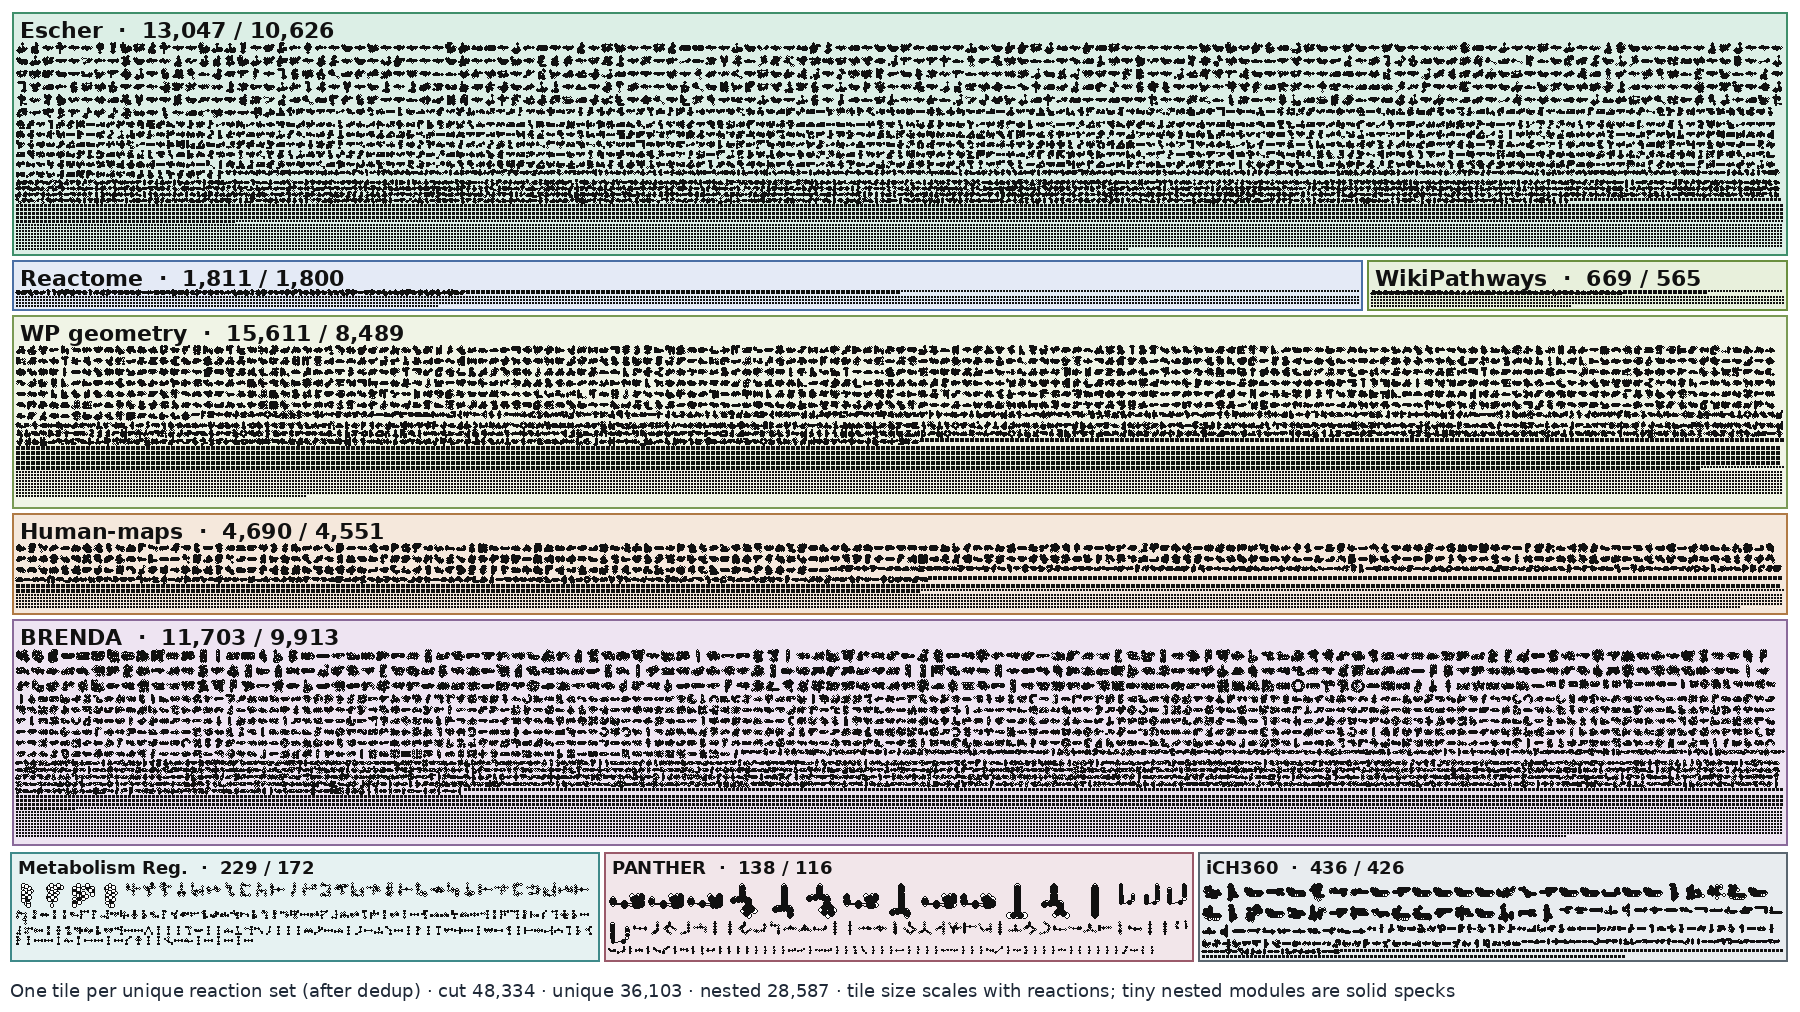
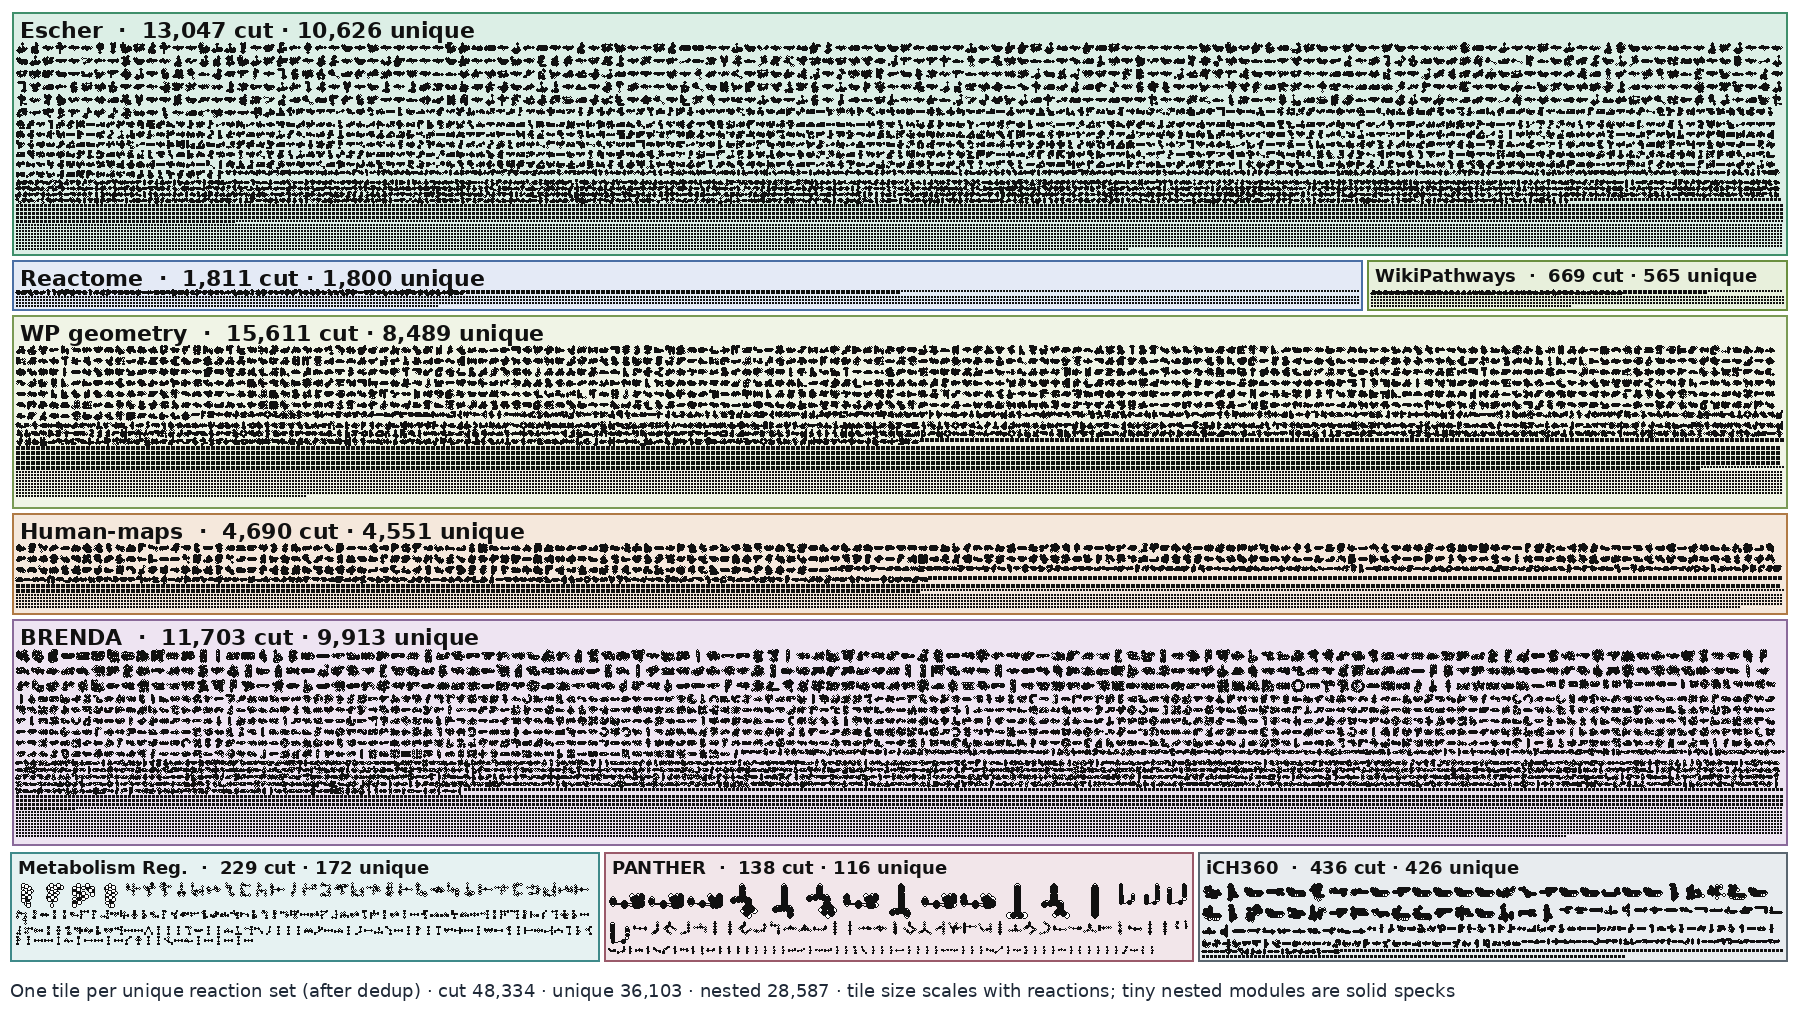
Link Project 22 on About and spell out cut/unique counts in the overview legend

diff --git a/layout_atlas/results/about/index.html b/layout_atlas/results/about/index.html
@@ -99,4 +99,4 @@ button.lnk{font:inherit;background:none;border:0;color:var(--accent);cursor:poin
 .vbox.tall{height:min(65vh,560px)}.vbox svg{touch-action:none;cursor:grab}.note.err{border-color:#c0392b;background:rgba(192,57,43,.1)}.lead2{color:var(--mute);max-width:90ch}
 .pdot{display:inline-block;width:9px;height:9px;border-radius:50%;margin-right:6px}ul.checks{list-style:none;padding:0;margin:6px 0}ul.checks li{padding:2px 0}ul.checks .ok b{color:#2e7d32}ul.checks .bad b{color:#c0392b}details.det{margin:12px 0}details.det>summary{cursor:pointer;color:var(--accent)}
 @media(max-width:640px){.top{position:static}.grp+.grp{border-left:0;padding-left:0}.top nav{flex-direction:column;gap:4px}main{padding:20px 14px 40px}.top .in{padding:8px 14px}th,td{padding:8px 10px}.grid{grid-template-columns:1fr}.filters label,.filters input,.filters select{width:100%}}
-</style><header class="top"><div class="in"><a class="brand" href="../../../index.html">Open Meta Maps</a><nav aria-label="Site"><div class="grp"><a href="../tool/index.html">Map Generator</a><a href="../atlas_browser/index.html">Atlas Browser</a><a href="index.html" aria-current="page">About / Provenance</a></div></nav></div></header><main><h1>About / Provenance</h1><p class="lead">Curated-structure Atlas construction and layout optimisation for Open Meta Maps.</p><style>.hero{padding:18px 0 8px}.hero h1{font-size:clamp(28px,5vw,44px)}.cta{display:inline-block;background:var(--accent);color:var(--accent-ink);padding:12px 26px;border-radius:999px;text-decoration:none;font-weight:600;font-size:17px;margin:6px 10px 6px 0}.cta.alt{background:var(--soft);color:var(--ink)}.steps3{display:grid;grid-template-columns:repeat(auto-fit,minmax(230px,1fr));gap:16px;margin:24px 0}.steps3 .card b{display:block;color:var(--accent);font-size:13px;letter-spacing:.06em;text-transform:uppercase}.steps3 .card h3{margin:4px 0}.fig{margin:12px 0 8px}.fig img{max-width:100%;height:auto;border:1px solid var(--line,#d0d7de);border-radius:8px}.fig .meta{margin-top:6px}</style><section class="panel"><h2>About Open Meta Maps</h2><p><b>Two parts: a curated-structure Atlas from public community maps, and a layout optimisation pipeline that reuses matching geometry and completes the rest with Bézier connections.</b></p><p>Open Meta Maps is ELIXIR BioHackathon Europe 2026 Project 22 (Open Pathway Maps). Every reaction and metabolite of the uploaded GEM is drawn; stoichiometry and compartments are unchanged.</p><p class="meta">Map Generator: python3 project.py tool or ./start_tool.command. Examples: e_coli_core, iIT341, iMM904, iML1515. Viewer: pan, wheel/pinch zoom, minimap. Server exits when the last tab closes (~8 s); --keep-running disables that. Evaluate layouts with python3 project.py evaluate.</p></section><section class="panel"><h2>1. Data construction — the curated-structure Atlas</h2><div class="stats"><div class="stat"><b>48,334</b><span>cut modules (default Atlas)</span></div><div class="stat"><b>36,103</b><span>unique after dedup</span></div><div class="stat"><b>15,527</b><span>open-core SQLite modules</span></div></div><div class="fig"><img src="../../../docs/images/atlas/atlas_overview.png" alt="Landscape overview mosaic of unique-after-dedup Atlas modules by source" width="700"/><p class="meta">One tile per unique reaction set within each source; tile size scales with reaction count. Totals count cut windows, not independent drawings.</p></div><h3>Sources and licences</h3><div class="tablewrap"><table><thead><tr><th>Source</th><th>What is used</th><th>Modules</th><th>Unique after dedup</th><th>Licence</th></tr></thead><tbody><tr><td>Escher</td><td>22 community maps</td><td>13,047</td><td>10,626</td><td>CC0-1.0</td></tr><tr><td>Reactome</td><td>release 97 · 115 diagrams</td><td>1,811</td><td>1,800</td><td>CC0 (data)</td></tr><tr><td>WikiPathways</td><td>release 20261110 · 2215 maps; 669 semantic + 15,611 geometry-only</td><td>16,280</td><td>9,054</td><td>CC0-1.0</td></tr><tr><td>Human-maps</td><td>130 official Escher JSON maps</td><td>4,690</td><td>4,551</td><td>CC BY 4.0</td></tr><tr><td>BRENDA</td><td>194 pathway maps; layout possibly automatic</td><td>11,703</td><td>9,913</td><td>CC BY 4.0</td></tr><tr><td>Metabolism Regulation</td><td>22 SBGN-ML gallery maps</td><td>229</td><td>172</td><td>CC BY 4.0</td></tr><tr><td>PANTHER</td><td>version 3.4/CD4.1 · 8 CellDesigner maps</td><td>138</td><td>116</td><td>CC BY 4.0</td></tr><tr><td>iCH360</td><td>10 custom Escher maps</td><td>436</td><td>426</td><td>MIT</td></tr></tbody></table></div><p class="meta">WikiPathways semantic modules live in open_core.sqlite; geometry-only windows ship as an extension for repository size. Both load by default. Dedup stats: docs/images/atlas/atlas_overlap.json.</p><p>The Atlas Browser tab searches these curated modules by EC, reaction, metabolite or model ID, source map and licence, and downloads selected modules as Escher JSON with a provenance/licence manifest (rebuild the search index with python3 tools/build_atlas_browser_index.py).</p><div class="fig"><img src="../../../docs/images/atlas/atlas_examples.svg" alt="Example Atlas modules with captions" width="700"/><p class="meta">Representative modules per source (source, map name, reaction count).</p></div><h3>Extraction, identity and selection</h3><ul><li><b>Cut</b>: in-repo Escher community cutter (parity-tested); Stage B diagram/geometry windows for Reactome, WikiPathways, Human-maps, Metabolism Regulation, PANTHER and iCH360; BRENDA’s own extractor.</li><li><b>Deduplicate</b>: core families and geometric variants; Stage B near-nested dedupe (nest_factor=2).</li><li><b>Canonical ids</b>: BiGG, MetaNetX and/or Rhea where a unique crosswalk exists.</li><li><b>Provenance</b>: source, map, licence and an extraction block (method, version, parameters, counts).</li><li><b>Selection</b>: coverage ranks first; among same-source biochemical matches with the same reaction set, the denser drawing is kept.</li></ul><p class="meta">Worked examples: docs/atlas_data_management.md#worked-examples · data/README.md.</p></section><section class="panel"><h2>2. Layout optimisation algorithm</h2><h3>Matching and curated reuse</h3><p>Reactions are matched to Atlas modules (EC currentisation, Rhea metabolite scoring, name normalisation, weighted Jaccard, vicinity propagation). Report curated, topology-only and optional EC suggestions as separate rates in reaction_provenance.json. EC similarity extension is off by default (CLI --ec). Matched geometry is kept as drawn; the rest uses layout_style=curated (Bézier). Orthogonal libavoid remains CLI --layout-style legacy only. Details: docs/reaction_map_matching.md · docs/methodology.md.</p><h3>Layout stages</h3><p>After matching, the Composer keeps curated blocks rigid, completes uncovered reactions, orients free reactions, composes stray components, draws Bézier connections and places labels. Small models take the full path; mid-size models use a global plan then the same curated Bézier pass; larger models keep a skeleton and draw ~50-reaction views on demand. Full stage table: README §2.</p><h3>Layout rules and evaluation</h3><p>Rules (crossings, overlaps, long edges, participant consistency, compartments, compactness, reproducibility, scale): status table in README. Compose writes layout_quality into layout_issues.json / report.json; python3 project.py evaluate adds layout-rules metrics.</p><ul><li>Optimised (partially): crossings and unrelated overlaps; detour and bends; long lines and cofactor clones; participant placement; curated-structure continuity; periphery, aspect, blank space.</li><li>Not yet optimised: axis-aligned segments and axes; grid metabolites; chain turn angles; cycle placement; compartment packing; build-on-previous layout (evaluate --compare-map).</li><li>Gaps: 2D component packing, harder orientation, compose --seed. Details: docs/layout_evaluation.md · docs/limitations.md.</li></ul></section><section class="panel"><h2>Outputs</h2><ul><li><b>Reaction provenance</b>: curated (community layout), topology-only suggestion, functional (EC) suggestion, bridge or generated, with matching evidence</li><li><b>Layout quality</b> · <b>Generation settings</b> · <b>Licensing metadata</b> (<code>licenses.json</code>)</li></ul><p>Integrity check: all reactions drawn; stoichiometry and compartments unchanged.</p><p class="meta">Report files: <code>report.json</code> · <code>reaction_provenance.json</code> · <code>licenses.json</code> · Software version: v0.3 · Registry generated: 2026-11-12</p></section><section class="panel"><h2>Licensing</h2><p>The software is MIT (LICENSE). The default Atlas mixes CC0, CC BY 4.0 and MIT (iCH360) sources; reuse must keep the attributions in THIRD_PARTY_NOTICES.md.</p></section><section class="panel"><h2>Documentation</h2><div class="grid"><a class="card" href="../../../docs/installation.md" style="text-decoration:none"><h3>Installation</h3></a><a class="card" href="../../../docs/data_sources.md" style="text-decoration:none"><h3>Data sources</h3></a><a class="card" href="../../../docs/atlas_data_management.md" style="text-decoration:none"><h3>Atlas data management</h3></a><a class="card" href="../../../docs/reaction_map_matching.md" style="text-decoration:none"><h3>Reaction–map matching</h3></a><a class="card" href="../../../docs/methodology.md" style="text-decoration:none"><h3>Methodology</h3></a><a class="card" href="../../../docs/layout_evaluation.md" style="text-decoration:none"><h3>Layout evaluation</h3></a><a class="card" href="../../../docs/limitations.md" style="text-decoration:none"><h3>Limitations</h3></a><a class="card" href="../../../THIRD_PARTY_NOTICES.md" style="text-decoration:none"><h3>Third-party notices</h3></a><a class="card" href="../../../data/README.md" style="text-decoration:none"><h3>Atlas data layout</h3></a></div></section></main><script>window.tr=function(s,v){var o=s;if(v)for(var k in v)o=o.split('{'+k+'}').join(v[k]);return o};</script></html>
+</style><header class="top"><div class="in"><a class="brand" href="../../../index.html">Open Meta Maps</a><nav aria-label="Site"><div class="grp"><a href="../tool/index.html">Map Generator</a><a href="../atlas_browser/index.html">Atlas Browser</a><a href="index.html" aria-current="page">About / Provenance</a></div></nav></div></header><main><h1>About / Provenance</h1><p class="lead">Curated-structure Atlas construction and layout optimisation for Open Meta Maps.</p><style>.hero{padding:18px 0 8px}.hero h1{font-size:clamp(28px,5vw,44px)}.cta{display:inline-block;background:var(--accent);color:var(--accent-ink);padding:12px 26px;border-radius:999px;text-decoration:none;font-weight:600;font-size:17px;margin:6px 10px 6px 0}.cta.alt{background:var(--soft);color:var(--ink)}.steps3{display:grid;grid-template-columns:repeat(auto-fit,minmax(230px,1fr));gap:16px;margin:24px 0}.steps3 .card b{display:block;color:var(--accent);font-size:13px;letter-spacing:.06em;text-transform:uppercase}.steps3 .card h3{margin:4px 0}.fig{margin:12px 0 8px}.fig img{max-width:100%;height:auto;border:1px solid var(--line,#d0d7de);border-radius:8px}.fig .meta{margin-top:6px}</style><section class="panel"><h2>About Open Meta Maps</h2><p><b>Two parts: a curated-structure Atlas from public community maps, and a layout optimisation pipeline that reuses matching geometry and completes the rest with Bézier connections.</b></p><p>Open Meta Maps is ELIXIR BioHackathon Europe 2026 <a href="https://github.com/elixir2026-project22">Project 22</a> (Open Pathway Maps). Every reaction and metabolite of the uploaded GEM is drawn; stoichiometry and compartments are unchanged.</p><p class="meta">Map Generator: python3 project.py tool or ./start_tool.command. Examples: e_coli_core, iIT341, iMM904, iML1515. Viewer: pan, wheel/pinch zoom, minimap. Server exits when the last tab closes (~8 s); --keep-running disables that. Evaluate layouts with python3 project.py evaluate.</p></section><section class="panel"><h2>1. Data construction — the curated-structure Atlas</h2><div class="stats"><div class="stat"><b>48,334</b><span>cut modules (default Atlas)</span></div><div class="stat"><b>36,103</b><span>unique after dedup</span></div><div class="stat"><b>15,527</b><span>open-core SQLite modules</span></div></div><div class="fig"><img src="../../../docs/images/atlas/atlas_overview.png" alt="Landscape overview mosaic of unique-after-dedup Atlas modules by source" width="700"/><p class="meta">One tile per unique reaction set within each source; tile size scales with reaction count. Totals count cut windows, not independent drawings.</p></div><h3>Sources and licences</h3><div class="tablewrap"><table><thead><tr><th>Source</th><th>What is used</th><th>Modules</th><th>Unique after dedup</th><th>Licence</th></tr></thead><tbody><tr><td>Escher</td><td>22 community maps</td><td>13,047</td><td>10,626</td><td>CC0-1.0</td></tr><tr><td>Reactome</td><td>release 97 · 115 diagrams</td><td>1,811</td><td>1,800</td><td>CC0 (data)</td></tr><tr><td>WikiPathways</td><td>release 20261110 · 2215 maps; 669 semantic + 15,611 geometry-only</td><td>16,280</td><td>9,054</td><td>CC0-1.0</td></tr><tr><td>Human-maps</td><td>130 official Escher JSON maps</td><td>4,690</td><td>4,551</td><td>CC BY 4.0</td></tr><tr><td>BRENDA</td><td>194 pathway maps; layout possibly automatic</td><td>11,703</td><td>9,913</td><td>CC BY 4.0</td></tr><tr><td>Metabolism Regulation</td><td>22 SBGN-ML gallery maps</td><td>229</td><td>172</td><td>CC BY 4.0</td></tr><tr><td>PANTHER</td><td>version 3.4/CD4.1 · 8 CellDesigner maps</td><td>138</td><td>116</td><td>CC BY 4.0</td></tr><tr><td>iCH360</td><td>10 custom Escher maps</td><td>436</td><td>426</td><td>MIT</td></tr></tbody></table></div><p class="meta">WikiPathways semantic modules live in open_core.sqlite; geometry-only windows ship as an extension for repository size. Both load by default. Dedup stats: docs/images/atlas/atlas_overlap.json.</p><p>The Atlas Browser tab searches these curated modules by EC, reaction, metabolite or model ID, source map and licence, and downloads selected modules as Escher JSON with a provenance/licence manifest (rebuild the search index with python3 tools/build_atlas_browser_index.py).</p><div class="fig"><img src="../../../docs/images/atlas/atlas_examples.svg" alt="Example Atlas modules with captions" width="700"/><p class="meta">Representative modules per source (source, map name, reaction count).</p></div><h3>Extraction, identity and selection</h3><ul><li><b>Cut</b>: in-repo Escher community cutter (parity-tested); Stage B diagram/geometry windows for Reactome, WikiPathways, Human-maps, Metabolism Regulation, PANTHER and iCH360; BRENDA’s own extractor.</li><li><b>Deduplicate</b>: core families and geometric variants; Stage B near-nested dedupe (nest_factor=2).</li><li><b>Canonical ids</b>: BiGG, MetaNetX and/or Rhea where a unique crosswalk exists.</li><li><b>Provenance</b>: source, map, licence and an extraction block (method, version, parameters, counts).</li><li><b>Selection</b>: coverage ranks first; among same-source biochemical matches with the same reaction set, the denser drawing is kept.</li></ul><p class="meta">Worked examples: docs/atlas_data_management.md#worked-examples · data/README.md.</p></section><section class="panel"><h2>2. Layout optimisation algorithm</h2><h3>Matching and curated reuse</h3><p>Reactions are matched to Atlas modules (EC currentisation, Rhea metabolite scoring, name normalisation, weighted Jaccard, vicinity propagation). Report curated, topology-only and optional EC suggestions as separate rates in reaction_provenance.json. EC similarity extension is off by default (CLI --ec). Matched geometry is kept as drawn; the rest uses layout_style=curated (Bézier). Orthogonal libavoid remains CLI --layout-style legacy only. Details: docs/reaction_map_matching.md · docs/methodology.md.</p><h3>Layout stages</h3><p>After matching, the Composer keeps curated blocks rigid, completes uncovered reactions, orients free reactions, composes stray components, draws Bézier connections and places labels. Small models take the full path; mid-size models use a global plan then the same curated Bézier pass; larger models keep a skeleton and draw ~50-reaction views on demand. Full stage table: README §2.</p><h3>Layout rules and evaluation</h3><p>Rules (crossings, overlaps, long edges, participant consistency, compartments, compactness, reproducibility, scale): status table in README. Compose writes layout_quality into layout_issues.json / report.json; python3 project.py evaluate adds layout-rules metrics.</p><ul><li>Optimised (partially): crossings and unrelated overlaps; detour and bends; long lines and cofactor clones; participant placement; curated-structure continuity; periphery, aspect, blank space.</li><li>Not yet optimised: axis-aligned segments and axes; grid metabolites; chain turn angles; cycle placement; compartment packing; build-on-previous layout (evaluate --compare-map).</li><li>Gaps: 2D component packing, harder orientation, compose --seed. Details: docs/layout_evaluation.md · docs/limitations.md.</li></ul></section><section class="panel"><h2>Outputs</h2><ul><li><b>Reaction provenance</b>: curated (community layout), topology-only suggestion, functional (EC) suggestion, bridge or generated, with matching evidence</li><li><b>Layout quality</b> · <b>Generation settings</b> · <b>Licensing metadata</b> (<code>licenses.json</code>)</li></ul><p>Integrity check: all reactions drawn; stoichiometry and compartments unchanged.</p><p class="meta">Report files: <code>report.json</code> · <code>reaction_provenance.json</code> · <code>licenses.json</code> · Software version: v0.3 · Registry generated: 2026-11-12</p></section><section class="panel"><h2>Licensing</h2><p>The software is MIT (LICENSE). The default Atlas mixes CC0, CC BY 4.0 and MIT (iCH360) sources; reuse must keep the attributions in THIRD_PARTY_NOTICES.md.</p></section><section class="panel"><h2>Documentation</h2><div class="grid"><a class="card" href="../../../docs/installation.md" style="text-decoration:none"><h3>Installation</h3></a><a class="card" href="../../../docs/data_sources.md" style="text-decoration:none"><h3>Data sources</h3></a><a class="card" href="../../../docs/atlas_data_management.md" style="text-decoration:none"><h3>Atlas data management</h3></a><a class="card" href="../../../docs/reaction_map_matching.md" style="text-decoration:none"><h3>Reaction–map matching</h3></a><a class="card" href="../../../docs/methodology.md" style="text-decoration:none"><h3>Methodology</h3></a><a class="card" href="../../../docs/layout_evaluation.md" style="text-decoration:none"><h3>Layout evaluation</h3></a><a class="card" href="../../../docs/limitations.md" style="text-decoration:none"><h3>Limitations</h3></a><a class="card" href="../../../THIRD_PARTY_NOTICES.md" style="text-decoration:none"><h3>Third-party notices</h3></a><a class="card" href="../../../data/README.md" style="text-decoration:none"><h3>Atlas data layout</h3></a></div></section></main><script>window.tr=function(s,v){var o=s;if(v)for(var k in v)o=o.split('{'+k+'}').join(v[k]);return o};</script></html>

diff --git a/layout_atlas/navigation.py b/layout_atlas/navigation.py
@@ -64,7 +64,7 @@ def about():
 
     s1 = sec(
         'About Open Meta Maps',
-        '<p><b>' + b('Two parts: a curated-structure Atlas from public community maps, and a layout optimisation pipeline that reuses matching geometry and completes the rest with Bézier connections.') + '</b></p><p>' + b('Open Meta Maps is ELIXIR BioHackathon Europe 2026 Project 22 (Open Pathway Maps). Every reaction and metabolite of the uploaded GEM is drawn; stoichiometry and compartments are unchanged.') + '</p><p class="meta">' + b('Map Generator: python3 project.py tool or ./start_tool.command. Examples: e_coli_core, iIT341, iMM904, iML1515. Viewer: pan, wheel/pinch zoom, minimap. Server exits when the last tab closes (~8 s); --keep-running disables that. Evaluate layouts with python3 project.py evaluate.') + '</p>',
+        '<p><b>' + b('Two parts: a curated-structure Atlas from public community maps, and a layout optimisation pipeline that reuses matching geometry and completes the rest with Bézier connections.') + '</b></p><p>' + b('Open Meta Maps is ELIXIR BioHackathon Europe 2026 ') + '<a href="https://github.com/elixir2026-project22">' + b('Project 22') + '</a>' + b(' (Open Pathway Maps). Every reaction and metabolite of the uploaded GEM is drawn; stoichiometry and compartments are unchanged.') + '</p><p class="meta">' + b('Map Generator: python3 project.py tool or ./start_tool.command. Examples: e_coli_core, iIT341, iMM904, iML1515. Viewer: pan, wheel/pinch zoom, minimap. Server exits when the last tab closes (~8 s); --keep-running disables that. Evaluate layouts with python3 project.py evaluate.') + '</p>',
     )
 
     about_path = ROOT / 'layout_atlas' / 'results' / 'about' / 'index.html'

diff --git a/tools/atlas_module_figures.py b/tools/atlas_module_figures.py
@@ -517,7 +517,9 @@ def write_overview_mosaic(by_src, summary, sets):
         stroke = _hex_rgb(SOURCE_STROKE[b['sk']])
         draw.rectangle([x0, y0, x0 + bw2 - 1, y0 + bh2 - 1], fill=tint, outline=stroke, width=2)
         info = b['info']
-        label = f"{SOURCE_LABEL_SHORT.get(b['sk'], b['sk'])}  ·  {info['modules']:,} / {info['unique_reaction_sets']:,}"
+        label = f"{SOURCE_LABEL_SHORT.get(b['sk'], b['sk'])}  ·  {info['modules']:,} cut · {info['unique_reaction_sets']:,} unique"
+        if draw.textlength(label, font=font) > bw2 - 16:
+            font = font_bold_sm
         draw.text((x0 + 8, y0 + 5), label, fill=(17, 17, 17), font=font)
         tile_x, tile_y = x0 + 4, y0 + label_h
         tile_w, tile_h = max(bw2 - 8, 4), max(bh2 - label_h - 4, 4)
